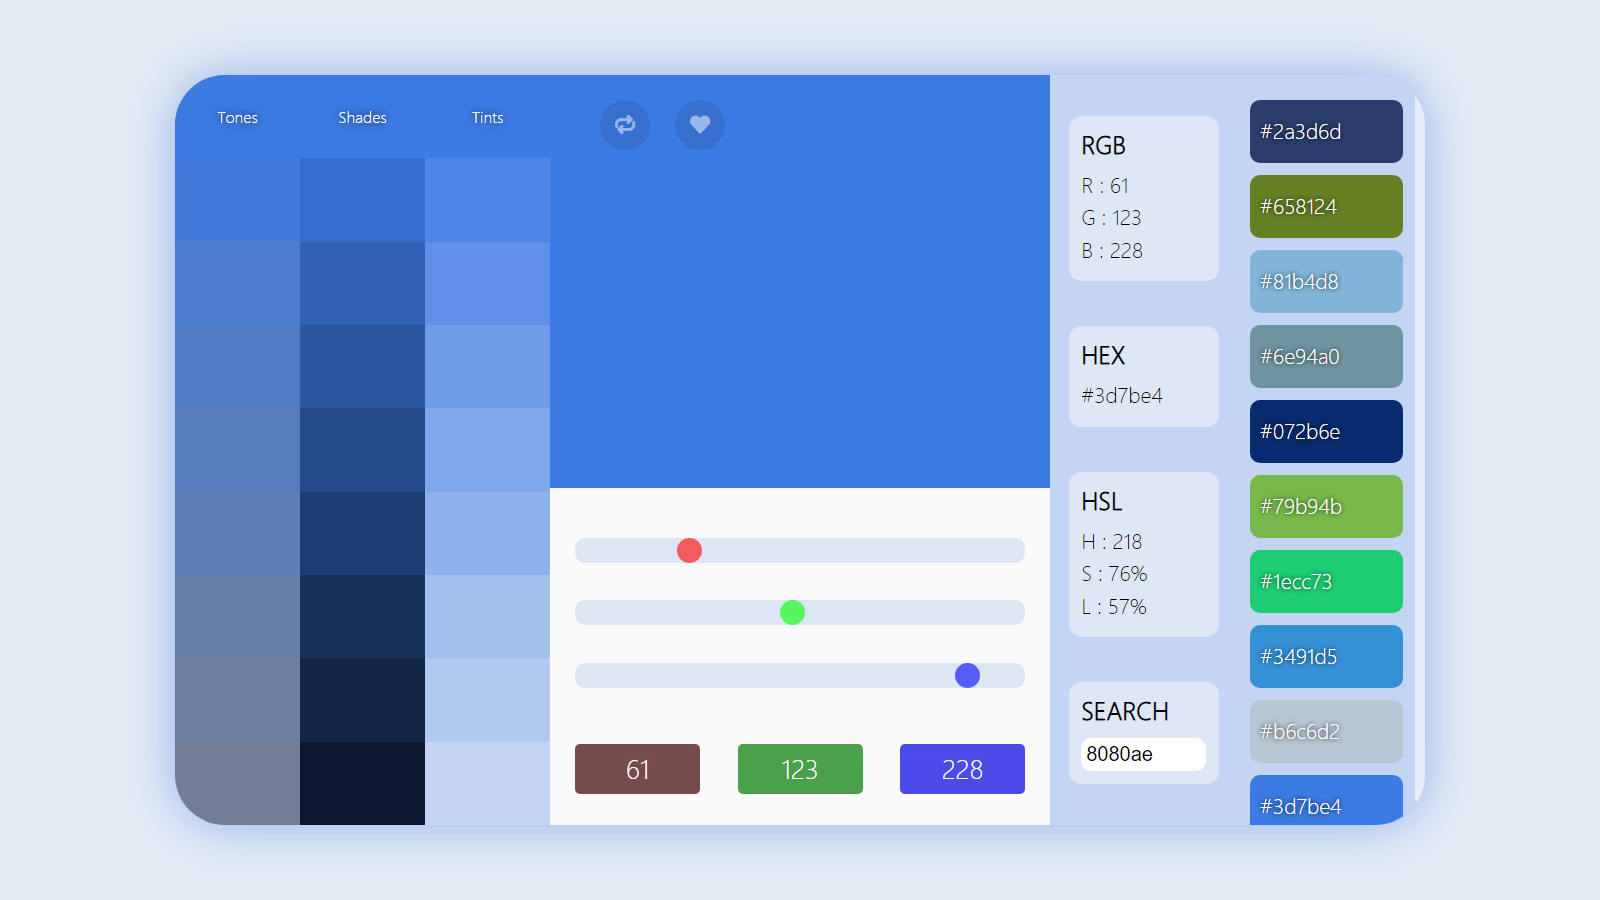
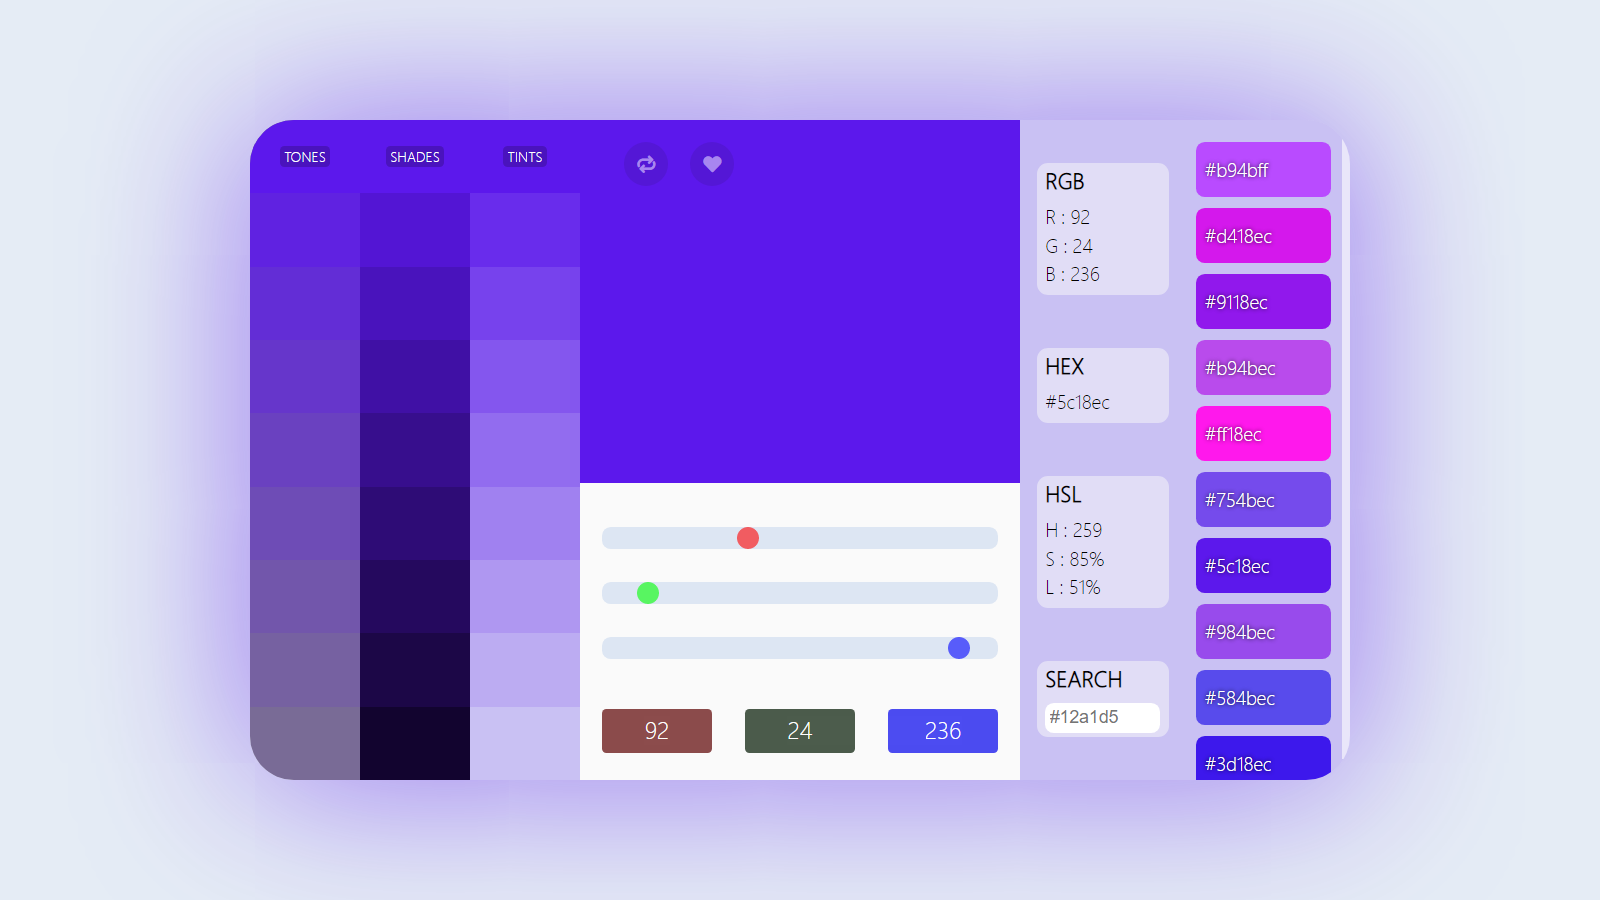
sliders live background

diff --git a/app.js b/app.js
@@ -1,6 +1,5 @@
 const element = (e) => document.querySelector(e);
 
-const appContainer = document.getElementById("app-container");
 // elements in header
 const header = document.getElementById("header");
 const hexElement = document.getElementById("hex");
@@ -10,7 +9,7 @@ const redSlider = document.getElementById("red");
 const greenSlider = document.getElementById("green");
 const blueSlider = document.getElementById("blue");
 // R span + G span + B span
-const rgbElements = document.querySelectorAll(".rgb-colors > span");
+const rgbSpans = document.querySelectorAll(".rgb-colors > span");
 // all span elements in #tints and #shadows
 const tints = document.querySelectorAll("#tints > span");
 const shades = document.querySelectorAll("#shades > span");
@@ -92,18 +91,23 @@ function rgbToHsl(red, green, blue) {
 
 setInterval(() => {
   let currentRGB = `${redSlider.value},${greenSlider.value},${blueSlider.value}`;
-  appContainer.style.boxShadow = `0 0 40px 0 rgba(${currentRGB}, ${0.5})`;
+  // slider gradient background
+  redSlider.style.backgroundImage = `linear-gradient(to right, rgba(0,${greenSlider.value},${blueSlider.value}, 0.4), rgba(255,${greenSlider.value},${blueSlider.value}, 0.4)`;
+  greenSlider.style.backgroundImage = `linear-gradient(to right, rgba(${redSlider.value},0,${blueSlider.value}, 0.4), rgba(${redSlider.value},255,${blueSlider.value}, 0.4)`;
+  blueSlider.style.backgroundImage = `linear-gradient(to right, rgba(${redSlider.value},${greenSlider.value},0, 0.4), rgba(${redSlider.value},${greenSlider.value},255, 0.4)`;
+
+  element("#app-container").style.boxShadow = `0 0 40px 0 rgba(${currentRGB}, ${0.4})`;
   // updates header with current slider values
   header.style.background = `rgb(${currentRGB})`;
   // Red
-  rgbElements[0].innerHTML = redSlider.value;
-  rgbElements[0].style.background = `rgb(${redSlider.value}, 0, 0)`;
+  rgbSpans[0].innerHTML = redSlider.value;
+  rgbSpans[0].style.background = `rgb(${redSlider.value}, 0, 0)`;
   // green
-  rgbElements[1].innerHTML = greenSlider.value;
-  rgbElements[1].style.background = `rgb(0, ${greenSlider.value}, 0)`;
+  rgbSpans[1].innerHTML = greenSlider.value;
+  rgbSpans[1].style.background = `rgb(0, ${greenSlider.value}, 0)`;
   // blue
-  rgbElements[2].innerHTML = blueSlider.value;
-  rgbElements[2].style.background = `rgb(0, 0, ${blueSlider.value})`;
+  rgbSpans[2].innerHTML = blueSlider.value;
+  rgbSpans[2].style.background = `rgb(0, 0, ${blueSlider.value})`;
 
   // displays hex color code
   hexElement.innerHTML = rgbToHex(redSlider.value, greenSlider.value, blueSlider.value);
@@ -141,19 +145,13 @@ randomBtn.addEventListener("click", () => {
 });
 
 function copyStringToClipboard(str) {
-  // Create new element
   var el = document.createElement("textarea");
-  // Set value (string to be copied)
   el.value = str;
-  // Set non-editable to avoid focus and move outside of view
   el.setAttribute("readonly", "");
   el.style = { position: "absolute", left: "-9999px" };
   document.body.appendChild(el);
-  // Select text inside element
   el.select();
-  // Copy text to clipboard
   document.execCommand("copy");
-  // Remove temporary element
   document.body.removeChild(el);
 }
 

diff --git a/index.html b/index.html
@@ -5,7 +5,7 @@
     <meta http-equiv="X-UA-Compatible" content="IE=edge" />
     <meta name="viewport" content="width=device-width, initial-scale=1.0" />
     <link rel="stylesheet" href="style.css" />
-    <title>colour tool app</title>
+    <title>color tool app</title>
     <link rel="shortcut icon" href="img/logo.png" type="image/x-icon" />
     <link
       rel="stylesheet"
@@ -15,8 +15,6 @@
     />
   </head>
   <body>
-    <!-- <div class="flex-container"> -->
-
     <div id="app-container">
       <div class="color-shades">
         <div class="tones" id="tones">
@@ -59,8 +57,8 @@
       <div class="color-pick">
         <div id="header">
           <div class="header-icons">
-            <div class="btn btn-circle fcc" id="rnd"><i class="fa fa-repeat"></i></div>
-            <div class="btn btn-circle fcc" id="save"><i class="fa fa-heart"></i></div>
+            <div class="btn btn-circle center" id="rnd"><i class="fa fa-repeat"></i></div>
+            <div class="btn btn-circle center" id="save"><i class="fa fa-heart"></i></div>
           </div>
         </div>
         <div class="main">
@@ -70,9 +68,9 @@
             <input type="range" min="0" max="255" value="" class="slider" id="blue" />
           </div>
           <div class="rgb-colors">
-            <span class="fcc"></span>
-            <span class="fcc"></span>
-            <span class="fcc"></span>
+            <span class="center"></span>
+            <span class="center"></span>
+            <span class="center"></span>
           </div>
         </div>
       </div>
@@ -112,11 +110,11 @@
       <div class="fave-color-container"></div>
 
       <div class="fullscreen-color">
-        <div class="btn fcc" id="close-btn">
+        <div class="btn center" id="close-btn">
           <i class="fa fa-times"></i>
         </div>
 
-        <div class="btn fcc" id="view-btn">
+        <div class="btn center" id="view-btn">
           <i class="fa fa-eye"></i>
         </div>
 

diff --git a/style.css b/style.css
@@ -8,7 +8,7 @@ html {
   padding: 0;
 }
 
-.fcc {
+.center {
   display: flex;
   justify-content: center;
   align-items: center;
@@ -22,13 +22,6 @@ body {
   justify-content: center;
   align-items: center;
   font-family: "@Microsoft Yahei Ui Light";
-}
-
-.flex-container {
-  /* border: 1px dashed blue; */
-  display: flex;
-  flex-direction: column;
-  justify-content: center;
 }
 
 #app-container {
@@ -54,7 +47,6 @@ body {
   padding: 20px;
 }
 .header-icons {
-  /* border: 1px solid red; */
   font-size: 20x;
   display: flex;
 }
@@ -119,8 +111,8 @@ input.slider::-webkit-slider-thumb {
   cursor: grab;
 }
 input.slider::-webkit-slider-thumb:hover {
-  width: 30px;
-  height: 30px;
+  width: 34px;
+  height: 34px;
 }
 
 input#red::-webkit-slider-thumb {
@@ -219,9 +211,10 @@ input#blue::-webkit-slider-thumb {
 
 #mycolor-input {
   border: #aaaaaa;
-  border-radius: 8px;
+  border-radius: 4px;
   width: 100%;
   padding: 4px;
+  margin-bottom: 6px;
   font-size: 16px;
 }
 .tooltip {
@@ -263,14 +256,15 @@ input#blue::-webkit-slider-thumb {
 }
 
 .btn {
-  background: rgba(18, 18, 18, 0.2);
+  background: rgba(0, 0, 0, 0.1);
   color: whitesmoke;
   cursor: pointer;
   transition: background 0.3s;
-  opacity: 0.5;
-  width: 40px;
-  height: 40px;
+  font-size: 16px;
+  width: 35px;
+  height: 35px;
   padding: 0;
+  opacity: 0.8;
   border-radius: 50%;
 }
 .btn:hover {
@@ -320,16 +314,18 @@ input#blue::-webkit-slider-thumb {
   height: 30px;
   font-size: 14px;
   text-shadow: none;
-  color: rgba(231, 40, 40, 0.6);
+  color: rgb(255, 110, 110);
   border-radius: 50px;
-  background: rgba(255, 255, 255, 0.2);
+  background: rgba(250, 250, 250, 0.7);
   display: flex;
   justify-content: center;
   align-items: center;
   opacity: 0;
-  transition: opacity 0.2s;
+  transition: opacity 0.2s, background 0.2s;
 }
-
+.delete-color:hover {
+  background-color: #fafafa;
+}
 ::-webkit-scrollbar {
   width: 8px;
 }

diff --git a/README.md b/README.md
@@ -9,7 +9,7 @@
 <br />
 <p align="center">
   <a href="https://github.com/miladxdev/color-tool-app">
-    <img src="img/logo.png" alt="Logo" width="140" height="140">
+    <img src="img/logo.png" alt="Logo" width="120" height="120">
   </a>
 
   <h3 align="center">COLOR TOOL APP</h3>
@@ -58,11 +58,11 @@
 
 ## About The Project
 
-![screenshot][product-screenshot]
+![screenshot](./img/screenshot.png)
 
-- [Live Demo](https://miladxdev.github.io/color-tool-app)
+- [LIVE DEMO »](https://miladxdev.github.io/color-tool-app)
 
-This singel page application alows you to pick RGB colors and then get RGB/HEX/HSL color codes and save your favorite color locally.
+This singel page application alows you to pick RGB colors and then get RGB/HEX/HSL color codes and also save your favorite color locally.
 
 ### Built With
 
@@ -82,10 +82,7 @@ No need
 
 <!-- USAGE EXAMPLES -->
 
-## Usage
-
-...
-
+<hr>
 <!-- ROADMAP -->
 
 ## Roadmap
@@ -143,4 +140,3 @@ Project Link: [https://github.com/miladxdev/color-tool-app](https://github.com/m
 [license-url]: https://github.com/miladxdev/color-tool-app/blob/master/LICENSE.txt
 [linkedin-shield]: https://img.shields.io/badge/-LinkedIn-black.svg?style=for-the-badge&logo=linkedin&colorB=555
 [linkedin-url]: https://www.linkedin.com/in/milad-gharibi-507ba3214/
-[product-screenshot]: img/screenshot.png
